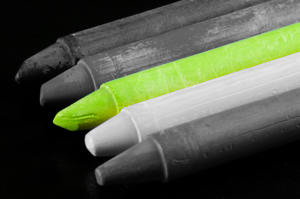
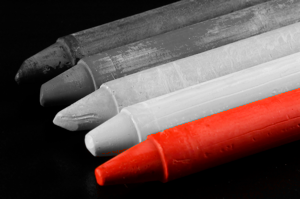
split files

Changed region(s): [[0.3, 0.4221, 1.0, 0.9347], [0.18, 0.0905, 1.0, 0.6633]]

diff --git a/extensions.rb b/extensions.rb
@@ -1,0 +1,73 @@
+module ChunkyPNG::Color
+  def self.to_rg(pixel)
+    r, g, b = r(pixel), g(pixel), b(pixel)
+    [r / (r + g + b).to_f, g / (r + b + g).to_f]
+  end
+
+  def self.hue(pixel)
+    r, g, b = r(pixel), g(pixel), b(pixel)
+    return 0 if r == b and b == g 
+    180 / Math::PI * Math.atan2(2 * r - g -b, Math.sqrt(3) * (g - b)) 
+  end
+
+  def self.distance(pixel, poxel)
+    # x, y = to_rg(pixel), to_rg(poxel)
+    #a, b = x[0] - y[0], x[1] - y[1]
+
+    # Divide by 1.41 to get results from 0 to 1
+    #Math.sqrt((a * a) + (b * b)) / Math.sqrt(2)
+    (hue(pixel) - hue(poxel)).abs
+  end
+end
+
+module Neighbors
+  def neighbors(x, y = nil)
+    unless y
+      y = x / width
+      x = x - y * width
+    end
+    candidates = ((x - 1)..(x + 1)).to_a.product(((y - 1)..(y + 1)).to_a)    
+    candidates.select{|el| include_point? el} - [[x, y]]
+  end
+end
+
+module SelectiveColor
+  def to_selective_color(color, avoid = nil, spread = nil)
+    colored = pixels.map do |pixel| 
+      too_far = color.inject(false){|r, (c, d)| r or (ChunkyPNG::Color.distance(c, pixel) > d)}
+      too_close = avoid && avoid.inject(false){|r, (c, d)| r or (ChunkyPNG::Color.distance(c, pixel) < d)}
+      if too_far or too_close
+        false
+      else
+        true
+      end
+    end
+
+    if spread then
+      modified = true
+      while modified do
+        modified = false
+        pixels.each_with_index do |pixel, i|
+          if colored[i]
+            neighbors(i).each do |(x,y)|
+              unless colored[x + (y * width)]
+                other_pixel = get_pixel(x, y)
+                if ChunkyPNG::Color.distance(pixel, other_pixel) < spread
+                  modified = (modified || 0) + 1
+                  colored[x + (y * width)] = true
+                end
+              end
+            end
+          end
+        end    
+        puts "Modified #{modified} pixels"
+      end 
+    end
+
+    colored.each_with_index do |color, i|
+      pixels[i] = ChunkyPNG::Color.to_grayscale(pixels[i]) unless color
+    end
+
+    return self
+  end
+end

diff --git a/selective_color.rb b/selective_color.rb
@@ -1,45 +1,17 @@
 require "chunky_png"
+require "./extensions.rb"
+require "pry"
 
-module ChunkyPNG::Color
-  def self.to_rg(pixel)
-    r, g, b = r(pixel), g(pixel), b(pixel)
-    [r / (r + g + b).to_f, g / (r + b + g).to_f]
-  end
-
-  def self.distance(pixel, poxel)
-    x, y = to_rg(pixel), to_rg(poxel)
-    a, b = x[0] - y[0], x[1] - y[1]
-
-    # Divide by 1.41 to get results from 0 to 1
-    Math.sqrt((a * a) + (b * b)) / Math.sqrt(2)
-  end
-end
-
-module SelectiveColor
-  def to_selective_color(color, avoid = nil)
-    pixels.map! do |pixel| 
-      too_far = color.inject(false){|r, (c, d)| r or (ChunkyPNG::Color.distance(c, pixel) > d)}
-      too_close = avoid && avoid.inject(false){|r, (c, d)| r or (ChunkyPNG::Color.distance(c, pixel) < d)}
-      if too_far or too_close
-        ChunkyPNG::Color.to_grayscale(pixel)
-      else
-        pixel
-      end
-    end
-
-    return self
-  end
-end
 
 image = ChunkyPNG::Image.from_file("input.png")
 
-image.extend(SelectiveColor)
+image.extend(SelectiveColor, Neighbors)
 
 
-keep = [[ChunkyPNG::Color.rgb(152,216,56), 0.1]]
+keep = [[ChunkyPNG::Color.rgb(221,57,42), 10]]#[[ChunkyPNG::Color.rgb(152,216,56), 0.1]]
 
-avoid = [[ChunkyPNG::Color.rgb(255,229,62), 0.05]]
+avoid = nil #[[ChunkyPNG::Color.rgb(255,229,62), 0.05]]
 
-image.to_selective_color(keep, avoid)
+image.to_selective_color(keep)
 
 image.save("output.png")
